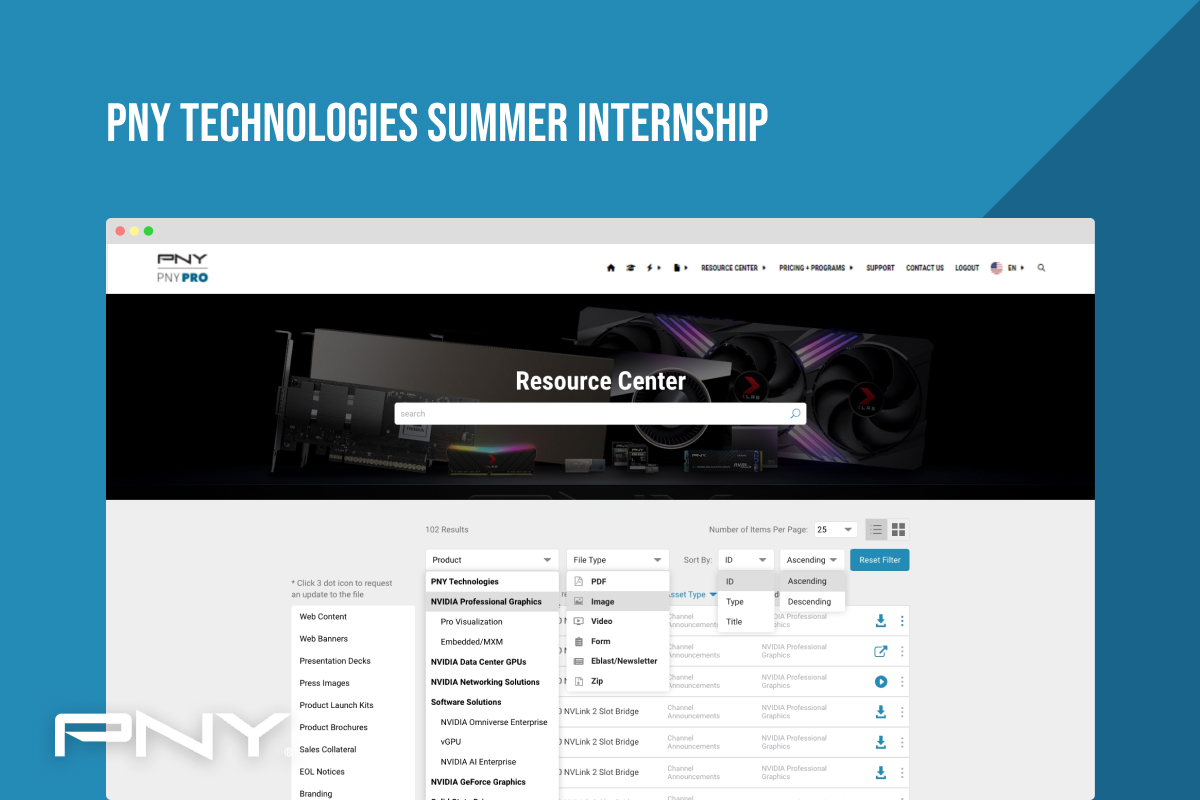
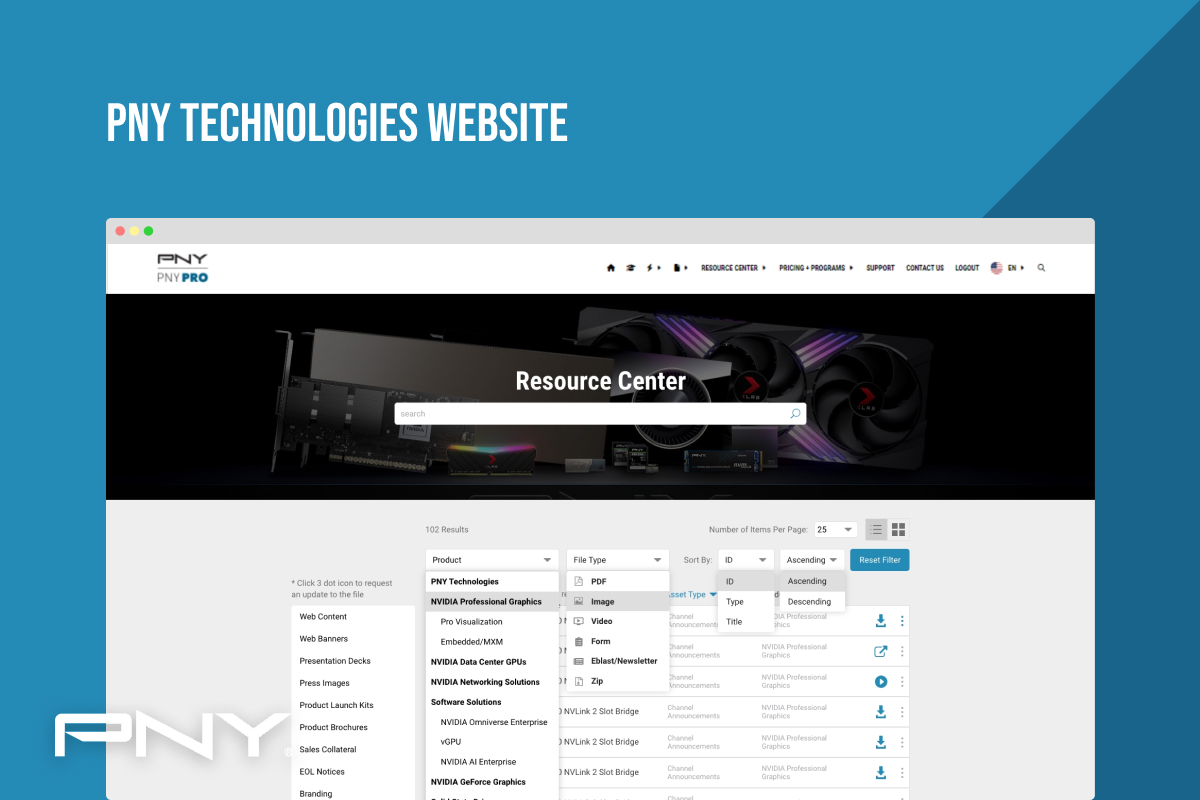
update

Changed region(s): [[0.3392, 0.125, 0.6475, 0.1875]]

diff --git a/index.html b/index.html
@@ -85,8 +85,8 @@
             <div class="grid-index-main reveal">
                 <div><img src="thumb/thumb_pny.jpg"></div>
                 <div class="grid-text">
-                    <h5>PNY Technologies Summer Internship</h5>
-                    <p>Works done for PNY Technologies, May - Aug 2023</p>
+                    <h5>Website for PNY Technologies</h5>
+                    <p>Website pages that I have designed during summer internship, May - Aug 2023</p>
                     <button onclick="location.href='page/page_pny.html'">See Work</button>
                 </div>
             </div>

diff --git a/page/page_duo.html b/page/page_duo.html
@@ -57,7 +57,7 @@
         <img src="duo/banner.jpg" class="hero-image" id="top">
 
         <section>
-            <h1 style="font-family: 'Helvetica';">Duolingo - Experience Strategy</h1>
+            <h1>Duolingo - Experience Strategy</h1>
             <div class="border-line"></div>
             <div class="grid-index">
                 <h6 class="grid-box">Wireframe</h6>
